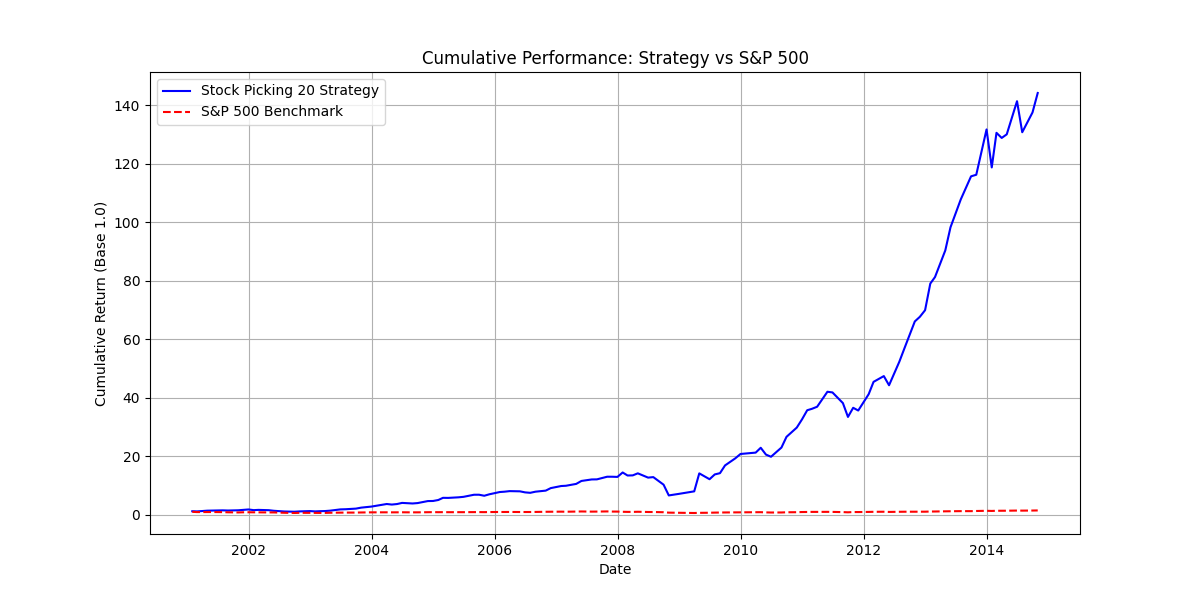
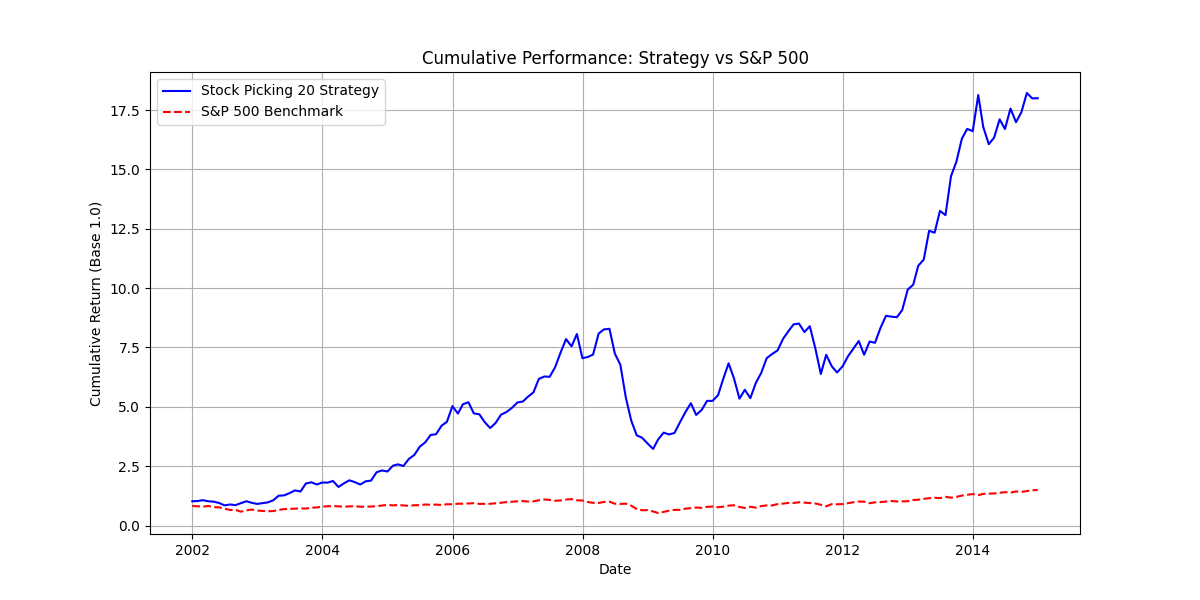
fixing resample by ME in preprocessing

diff --git a/scripts/preprocessing.py b/scripts/preprocessing.py
@@ -5,7 +5,10 @@ import os
 def preprocessing(prices, sp500):
     # Passage au format Long (Date & Ticker en index)
    
-    prices = prices.set_index("Date").stack(future_stack=True).to_frame('Price')    
+    prices = prices.set_index("Date")
+    # print(prices.index.dtype)
+    prices = prices.resample("ME").last()
+    prices = prices.stack(future_stack=True).to_frame('Price')
     prices.index.names = ['Date', 'Ticker']
     prices = prices.sort_index(level=['Ticker', 'Date'])
 
@@ -33,6 +36,7 @@ def preprocessing(prices, sp500):
     # Remplissage des vides (Forward Fill)
     ## On complete les trous avec la derniere valeur connue de l'entreprise
     prices['Price'] = prices.groupby('Ticker')['Price'].ffill()
+    
     prices['monthly_past_return'] = prices.groupby('Ticker')['monthly_past_return'].ffill()
     prices['monthly_future_return'] = prices.groupby('Ticker')['monthly_future_return'].ffill()
 
